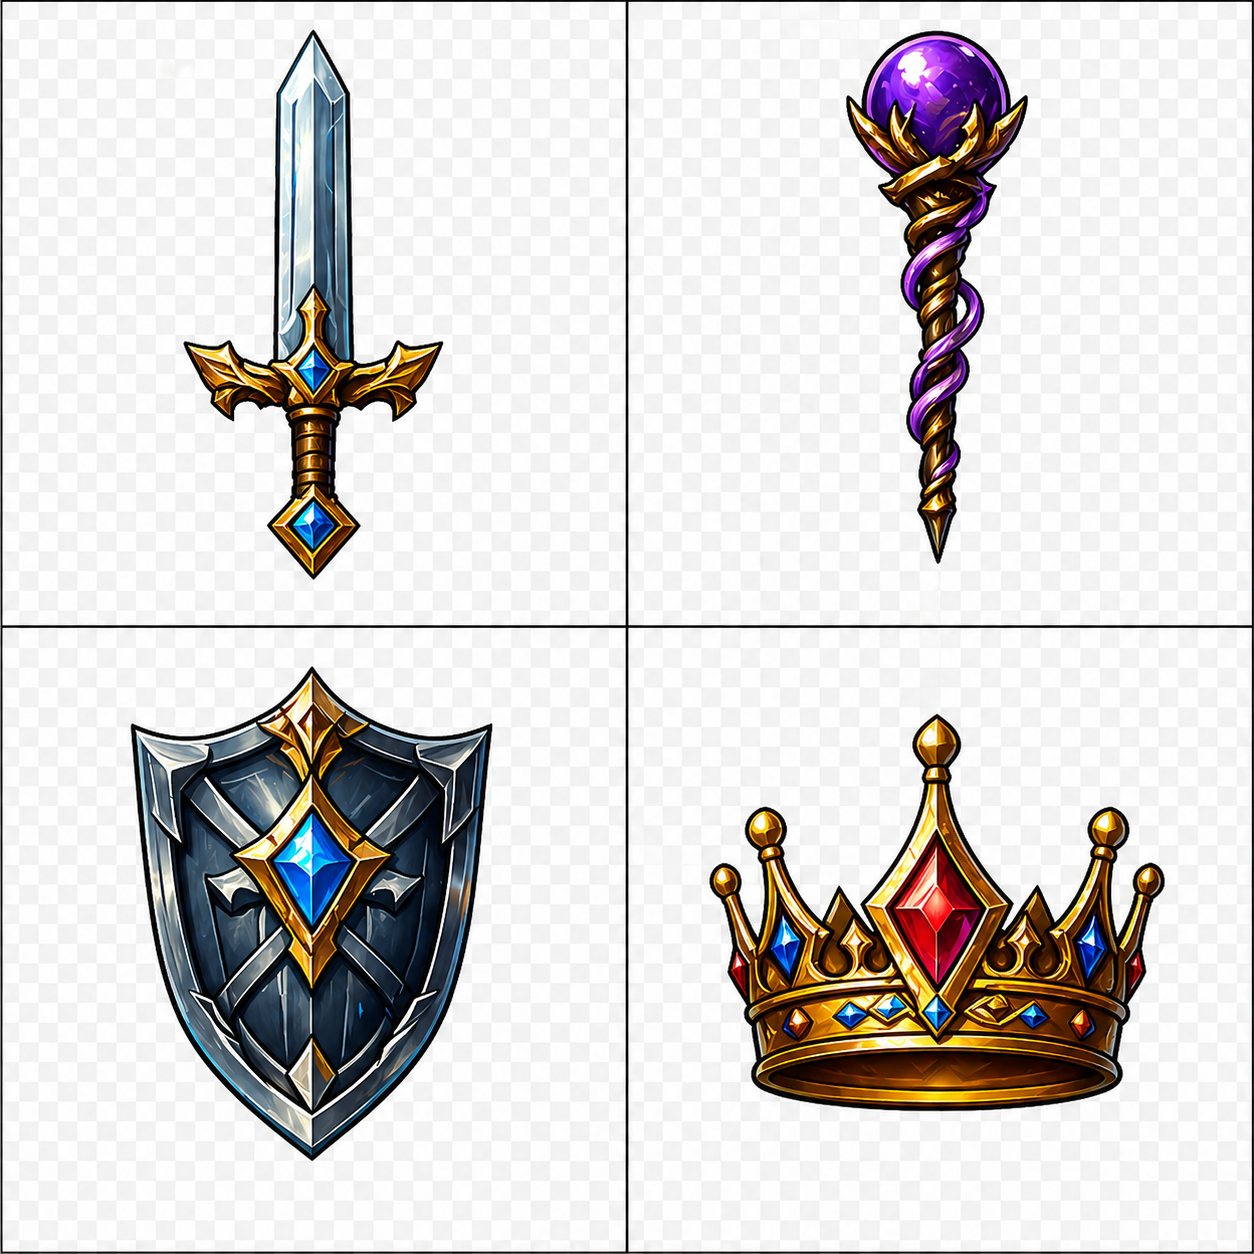
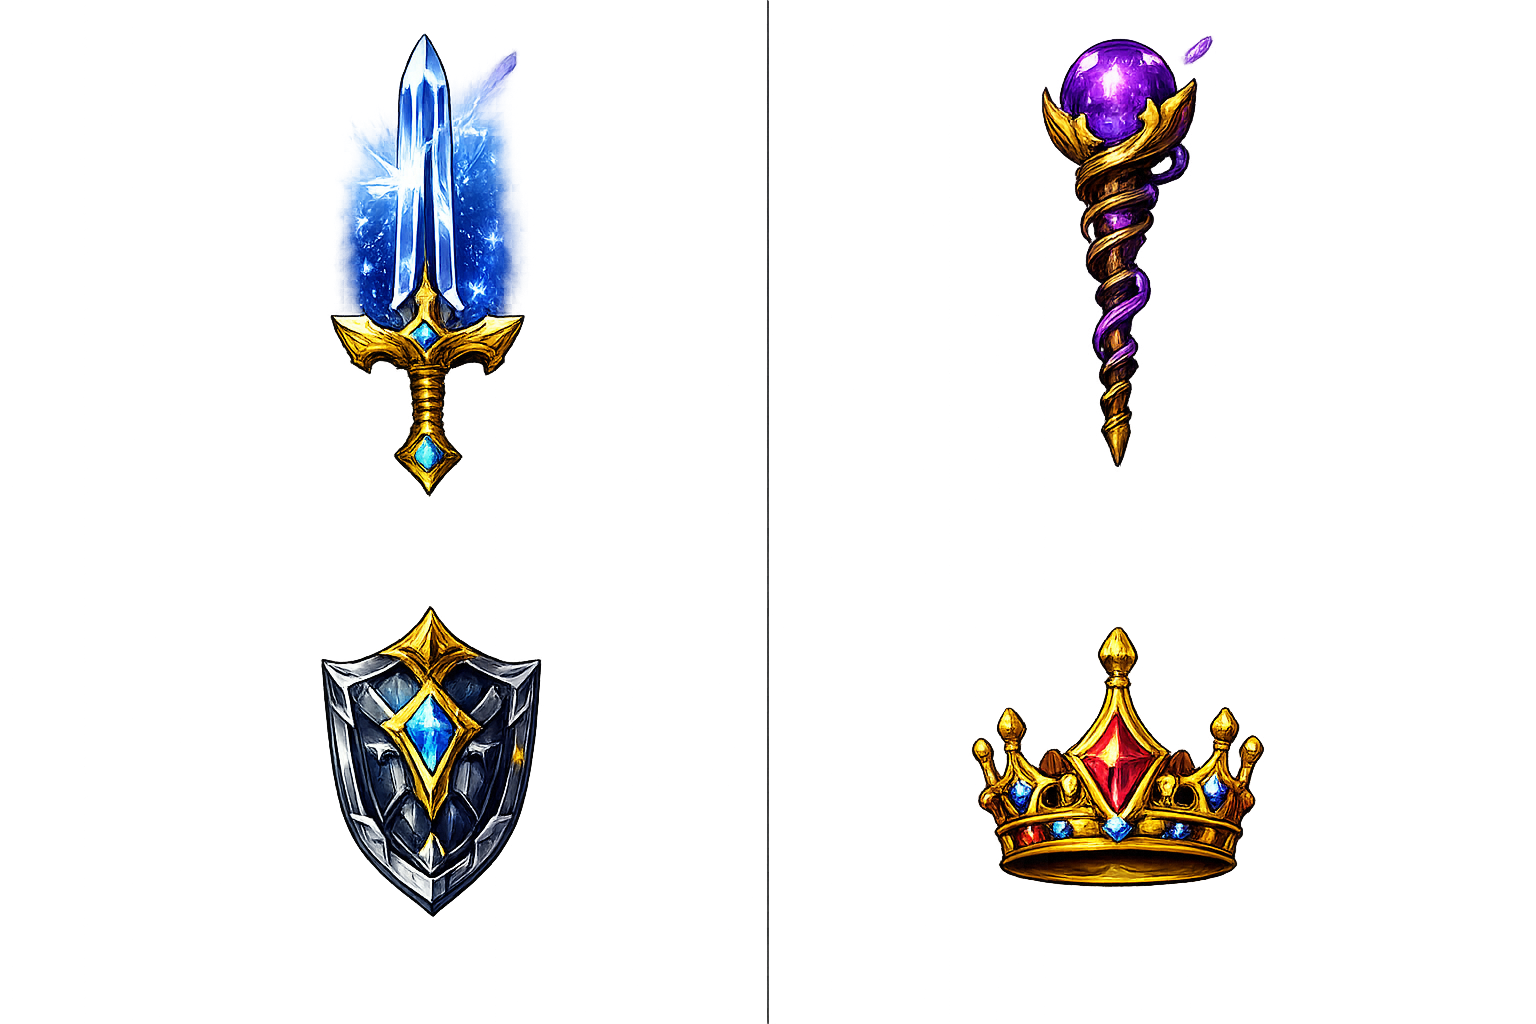
royal-rummy: シンボルを大型化し、4スートを赤/青/緑/黄に色分け
- 新しい透過 symbol.png (1536×1024, 各セル 768×512) に追従し
  letterbox 描画でアスペクト比を保つ
- カードのメダリオン領域を 0.82w×0.58h → 0.96w×0.78h に拡大
- カード本体を suit ごとに赤(剣)/青(杖)/緑(盾)/金黄(王冠) の
  ヴェルベットグラデへ変更し、枠線も太めに
- ランク数字を金色→白に変更し位置を上に押し上げ

diff --git a/royal-rummy/src/ui/card-face.ts b/royal-rummy/src/ui/card-face.ts
@@ -14,36 +14,41 @@ import suitsUrl from "../assets/symbols/suits.png";
 
 /**
  * Suit sprite sheet layout. The user-supplied suits.png is a 2×2 grid
- * (1254×1254, each cell 627×627):
+ * (1536×1024, each cell 768×512):
  *   suit 0 = sword  (top-left)
  *   suit 1 = wand   (top-right)
  *   suit 2 = shield (bottom-left)
  *   suit 3 = crown  (bottom-right)
  */
 export const SUITS_SHEET_URL = suitsUrl;
-const SHEET_CELL = 627;
+const SHEET_CELL_W = 768;
+const SHEET_CELL_H = 512;
 const SUIT_CELL = [
-  { sx: 0,          sy: 0 },
-  { sx: SHEET_CELL, sy: 0 },
-  { sx: 0,          sy: SHEET_CELL },
-  { sx: SHEET_CELL, sy: SHEET_CELL },
+  { sx: 0,            sy: 0 },
+  { sx: SHEET_CELL_W, sy: 0 },
+  { sx: 0,            sy: SHEET_CELL_H },
+  { sx: SHEET_CELL_W, sy: SHEET_CELL_H },
 ] as const;
 
-export const ELEMENT_GLOW = ["#cfd6e6", "#c79052", "#7eb6ff", "#ffd86b"] as const;
+/** Halo color for melds + per-suit medallion glow. Tied to SUIT_BODY hue. */
+export const ELEMENT_GLOW = ["#ff6464", "#6ba7ff", "#5fc56e", "#ffd86b"] as const;
 
 /**
- * Per-suit card body palette. Top/bottom drive the velvet gradient mount and
- * `frame` is the resting border color (highlight overrides this with gold).
- *   sword  → cool steel-blue
- *   wand   → warm umber/wood
- *   shield → deep azure
- *   crown  → royal gold-violet
+ * Per-suit card body palette. Each suit gets a distinct primary color so the
+ * suit reads instantly across the table:
+ *   sword  → red
+ *   wand   → blue
+ *   shield → green
+ *   crown  → yellow / gold
+ *
+ * `top` / `bottom` form the vertical velvet gradient; `frame` is the resting
+ * border color (highlight state overrides with gold).
  */
 const SUIT_BODY = [
-  { top: "#2c3a4e", bottom: "#0c1218", frame: "rgba(180,200,220,0.65)" },
-  { top: "#3d2b18", bottom: "#170b04", frame: "rgba(199,144,82,0.65)" },
-  { top: "#1c2c4a", bottom: "#080f1c", frame: "rgba(126,182,255,0.65)" },
-  { top: "#3a2c14", bottom: "#1a0e04", frame: "rgba(255,216,107,0.7)" },
+  { top: "#7a1c1c", bottom: "#260606", frame: "rgba(255,120,120,0.95)" },
+  { top: "#1c3978", bottom: "#06101e", frame: "rgba(130,180,255,0.95)" },
+  { top: "#1c5a30", bottom: "#06180c", frame: "rgba(110,210,130,0.95)" },
+  { top: "#7a5a18", bottom: "#1f1604", frame: "rgba(255,216,107,1.0)" },
 ] as const;
 
 /** Kick off image decode for the suit sprite sheet; safe to call multiple times. */
@@ -82,25 +87,33 @@ export function drawCardFace(
   roundRect(ctx, x, y, w, h, 6);
   ctx.fill();
 
-  // Outer rune frame — suit-tinted at rest, gold halo when highlighted.
+  // Outer rune frame — bold suit-tinted at rest, gold halo when highlighted.
   ctx.strokeStyle = highlight ? "#ffd54a" : body.frame;
-  ctx.lineWidth = highlight ? 3.2 : 1.4;
-  roundRect(ctx, x + 0.75, y + 0.75, w - 1.5, h - 1.5, 6);
+  ctx.lineWidth = highlight ? 3.4 : 2.4;
+  roundRect(ctx, x + 1, y + 1, w - 2, h - 2, 6);
   ctx.stroke();
 
   const glow = ELEMENT_GLOW[c.suit] ?? "#ffffff";
 
-  // Element medallion sits in the lower ~58% of the card
-  const medSide = Math.min(w * 0.82, h * 0.58);
+  // Suit medallion takes the bottom ~70% of the card so it reads from a
+  // distance. Cell aspect is 1.5:1 (768×512) so the destination box scales
+  // letterboxed below.
+  const medSide = Math.min(w * 0.96, h * 0.78);
   const medX = x + (w - medSide) / 2;
-  const medY = y + h * 0.40;
+  const medY = y + h * 0.30;
   const sheet = getCachedImage(suitsUrl);
   const cell = SUIT_CELL[c.suit];
   if (sheet && cell) {
+    // Cell aspect (1.5:1) doesn't match the square medallion target — letterbox
+    // so wider symbols (shield, crown) and tall ones (sword, wand) keep shape.
+    const cellAspect = SHEET_CELL_W / SHEET_CELL_H;
+    const dstW = medSide;
+    const dstH = medSide / cellAspect;
+    const dstY = medY + (medSide - dstH) / 2;
     ctx.save();
     ctx.shadowColor = glow;
     ctx.shadowBlur = highlight ? 22 : 10;
-    ctx.drawImage(sheet, cell.sx, cell.sy, SHEET_CELL, SHEET_CELL, medX, medY, medSide, medSide);
+    ctx.drawImage(sheet, cell.sx, cell.sy, SHEET_CELL_W, SHEET_CELL_H, medX, dstY, dstW, dstH);
     ctx.restore();
   } else {
     // Fallback while image decodes — colored disc keeps element identity.
@@ -112,20 +125,21 @@ export function drawCardFace(
     ctx.restore();
   }
 
-  // Purity (rank) numeral at top centre — large, gold, with stroke for contrast
+  // Rank numeral at the top — pulled higher to make room for the bigger
+  // medallion below.
   const label = RANK_LABELS[c.rank];
   const labelLen = label.length;
-  const purityFont = labelLen >= 4 ? Math.floor(w * 0.28)
-                   : labelLen === 3 ? Math.floor(w * 0.32)
-                   : Math.floor(w * 0.38);
-  ctx.fillStyle = "#ffe18a";
-  ctx.strokeStyle = "rgba(0,0,0,0.85)";
+  const purityFont = labelLen >= 4 ? Math.floor(w * 0.26)
+                   : labelLen === 3 ? Math.floor(w * 0.30)
+                   : Math.floor(w * 0.34);
+  ctx.fillStyle = "#fff";
+  ctx.strokeStyle = "rgba(0,0,0,0.9)";
   ctx.lineWidth = 3.5;
   ctx.textAlign = "center";
   ctx.textBaseline = "middle";
   ctx.font = `bold ${purityFont}px serif`;
-  ctx.strokeText(label, cx, y + h * 0.18);
-  ctx.fillText(label, cx, y + h * 0.18);
+  ctx.strokeText(label, cx, y + h * 0.13);
+  ctx.fillText(label, cx, y + h * 0.13);
 
   ctx.restore();
 }
